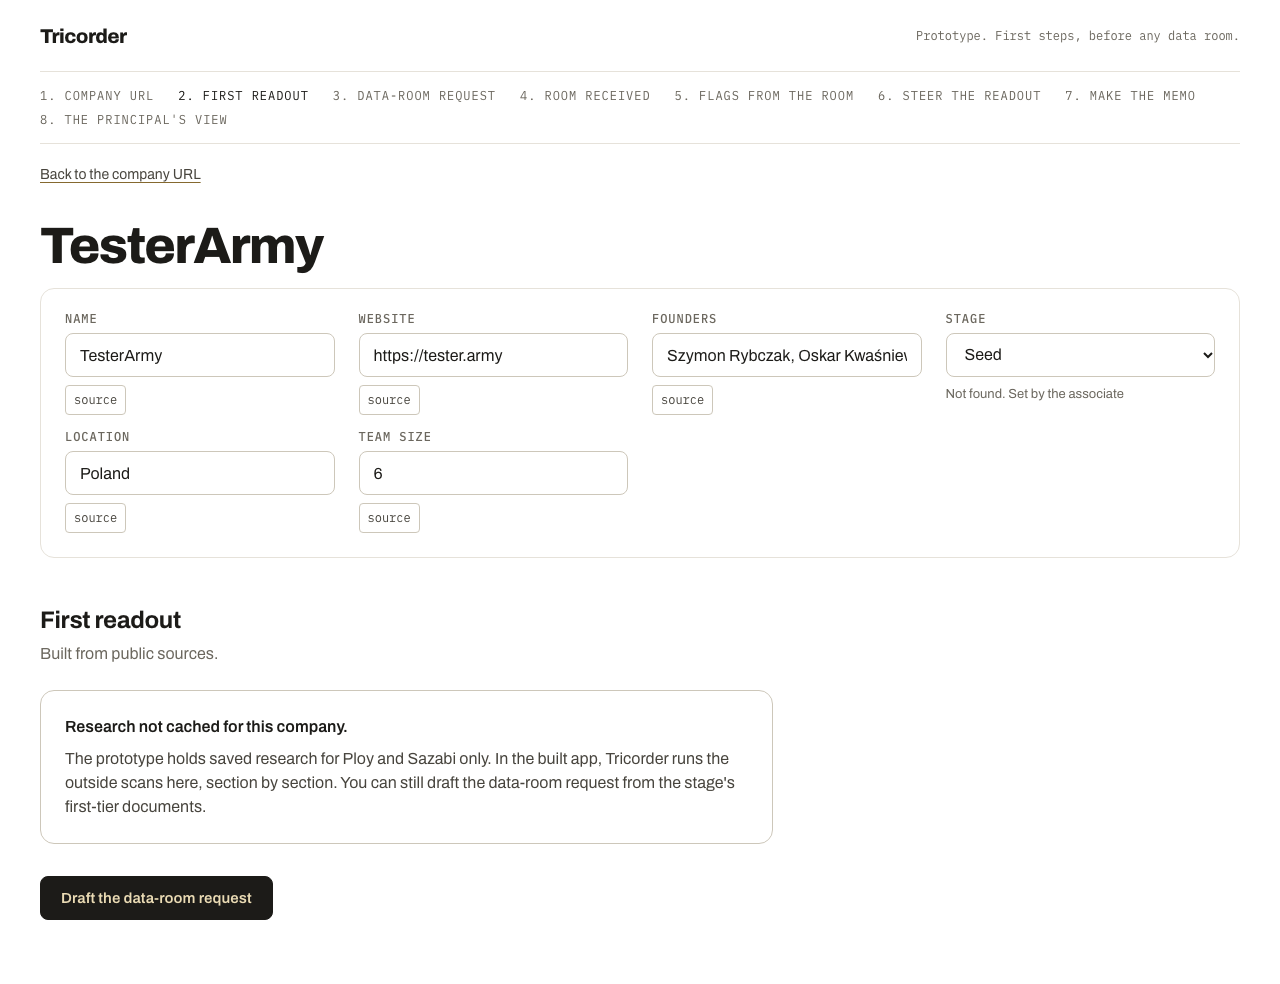
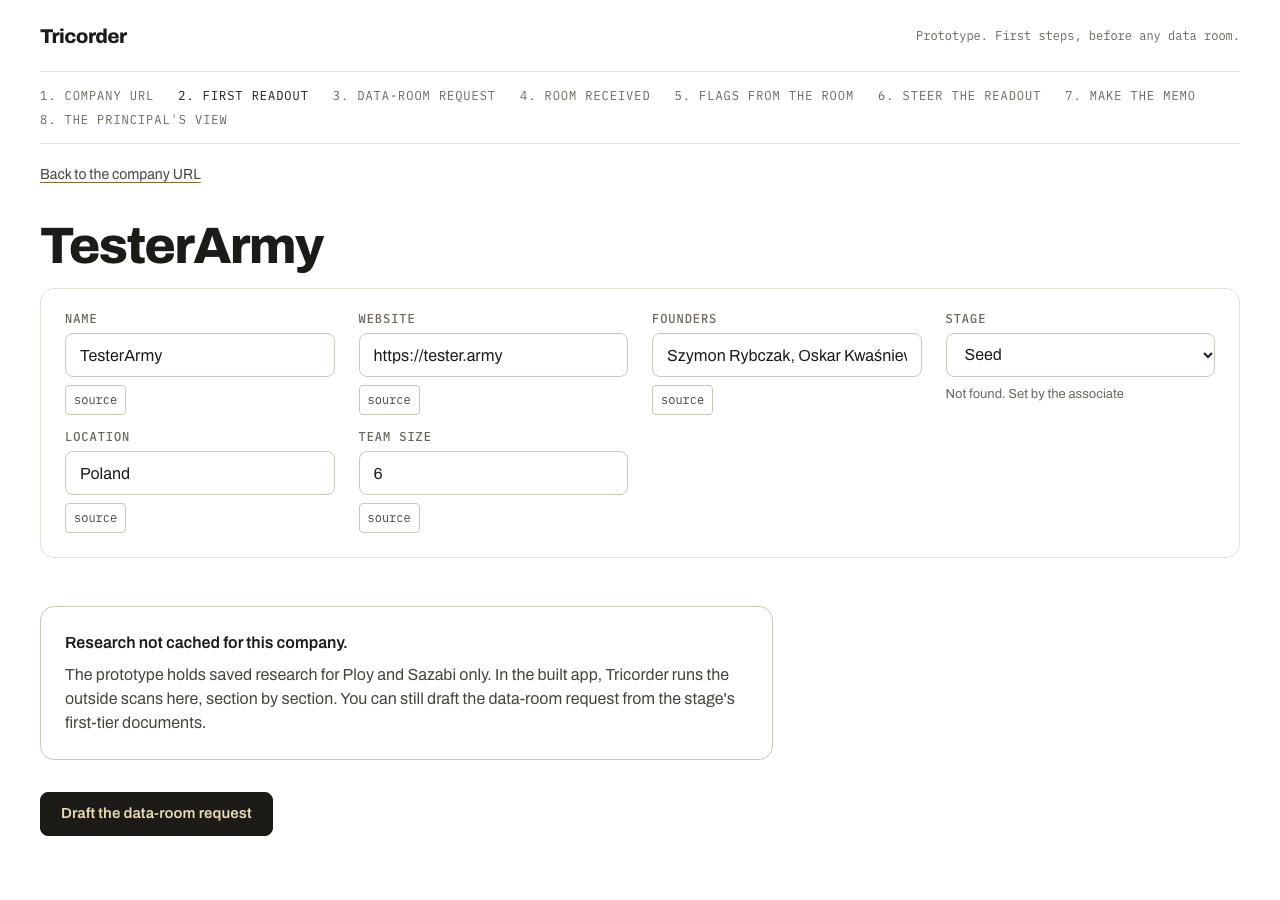
Prototype readout: summary, what stands out, founders, comps, signals; evidence numbers show their source on hover

diff --git a/docs/features/20261024.02_first_steps_ui/prototype/app.js b/docs/features/20261024.02_first_steps_ui/prototype/app.js
@@ -148,6 +148,32 @@
       ${s.kind === "readable copy" ? `<span class="note"> (a readable copy made from the saved file)</span>` : ""}
     </span>`;
   }
+  // Hovering an evidence number shows the fact and its source (Ken, 12:58 PM).
+  let tip = null;
+  function hideTip() { if (tip) { tip.remove(); tip = null; } }
+  function showTip(a) {
+    hideTip();
+    const row = document.getElementById(a.getAttribute("href").slice(1));
+    if (!row) return;
+    const text = row.querySelector(".claim-text").textContent.replace(/^\s*\d+\s*/, "").trim();
+    const chipEl = row.querySelector(".srcchip");
+    const s = chipEl ? D.sources[chipEl.dataset.src] : null;
+    tip = document.createElement("div");
+    tip.className = "ev-tip";
+    tip.setAttribute("role", "tooltip");
+    tip.innerHTML = `<span class="ev-tip-n">${esc(a.textContent)}</span> ${esc(text)}${s ? `<span class="ev-tip-src">Source: ${esc(s.title)}</span>` : ""}`;
+    document.body.appendChild(tip);
+    const r = a.getBoundingClientRect();
+    const w = Math.min(380, window.innerWidth - 32);
+    tip.style.width = w + "px";
+    tip.style.left = Math.max(16, Math.min(window.scrollX + r.left, window.scrollX + window.innerWidth - w - 16)) + "px";
+    tip.style.top = (window.scrollY + r.bottom + 8) + "px";
+  }
+  app.addEventListener("mouseover", (e) => { const a = e.target.closest(".ev-ref"); if (a) showTip(a); });
+  app.addEventListener("mouseout", (e) => { if (e.target.closest(".ev-ref")) hideTip(); });
+  app.addEventListener("focusin", (e) => { const a = e.target.closest(".ev-ref"); if (a) showTip(a); });
+  app.addEventListener("focusout", (e) => { if (e.target.closest(".ev-ref")) hideTip(); });
+
   app.addEventListener("click", (e) => {
     const b = e.target.closest(".srcchip");
     if (!b) return;
@@ -284,7 +310,6 @@
       numberClaims(R);
       body = `<p class="status" id="overall" role="status"></p>
         ${insightsHtml(R)}
-        <div class="evidence-head"><h2>Evidence</h2><p class="note">Every fact Tricorder found, numbered, each with its source: the founders, comps, market signals, then the outside world.</p></div>
         ${R.sections.map(sectionHtml).join("")}
         <section class="roomgaps wait" id="roomgaps" aria-label="What only a data room can answer">
           <h2>What only a data room can answer</h2>
@@ -295,9 +320,7 @@
     app.innerHTML = `${header("readout", ["start", "the company URL"])}
       <h2 id="co-name" class="co-title">${esc(name)}</h2>
       ${R ? aboutHtml(R) : setupPanel()}
-      <div class="masthead readout-head"><h2 class="sub-title">First readout</h2>
-        ${R ? '<button class="link tc-link-btn" id="replay" type="button">Replay the research</button>' : ""}</div>
-      <p class="note">Built from public sources.</p>
+      <div class="readout-head">${R ? '<button class="link tc-link-btn" id="replay" type="button">Replay the research</button>' : ""}</div>
       ${body}
       <div class="actions"><button class="tc-btn primary" id="to-request" type="button">Draft the data-room request</button></div>`;
     bindSetup();

diff --git a/docs/features/20261024.02_first_steps_ui/prototype/app.css b/docs/features/20261024.02_first_steps_ui/prototype/app.css
@@ -157,3 +157,7 @@ tr.claim:target { background: var(--tc-hover, rgba(127,127,127,0.12)); }
 
 .about { font-size: 18px; line-height: 1.55; max-width: 72ch; color: var(--tc-ink); margin: var(--tc-space-2) 0 var(--tc-space-5); }
 .about .based .ev-ref { font-size: 11px; }
+.ev-tip { position: absolute; z-index: 20; padding: var(--tc-space-3); background: var(--tc-surface); color: var(--tc-ink); border: var(--tc-hair) solid var(--tc-rule); border-radius: var(--tc-radius-m, 8px); box-shadow: 0 8px 24px rgba(0,0,0,0.18); font-size: 14px; line-height: 1.45; pointer-events: none; }
+.ev-tip-n { font-family: var(--tc-font-mono); font-size: 12px; color: var(--tc-ink-3); margin-right: 4px; }
+.ev-tip-src { display: block; margin-top: 6px; font-family: var(--tc-font-mono); font-size: 12px; color: var(--tc-ink-3); }
+.readout-head { display: flex; justify-content: flex-end; }
